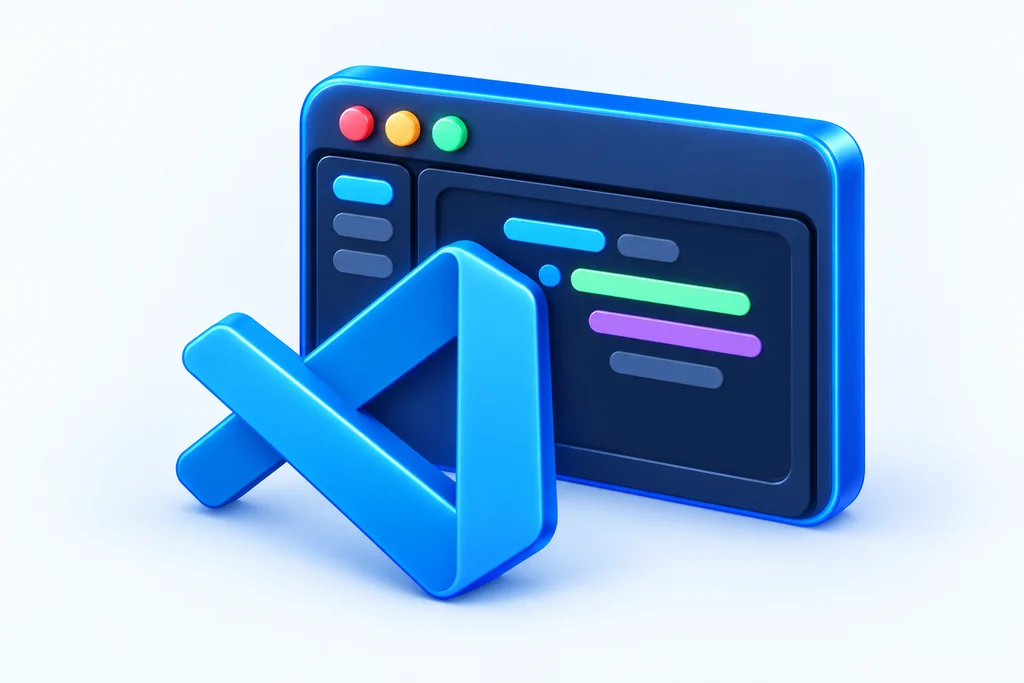
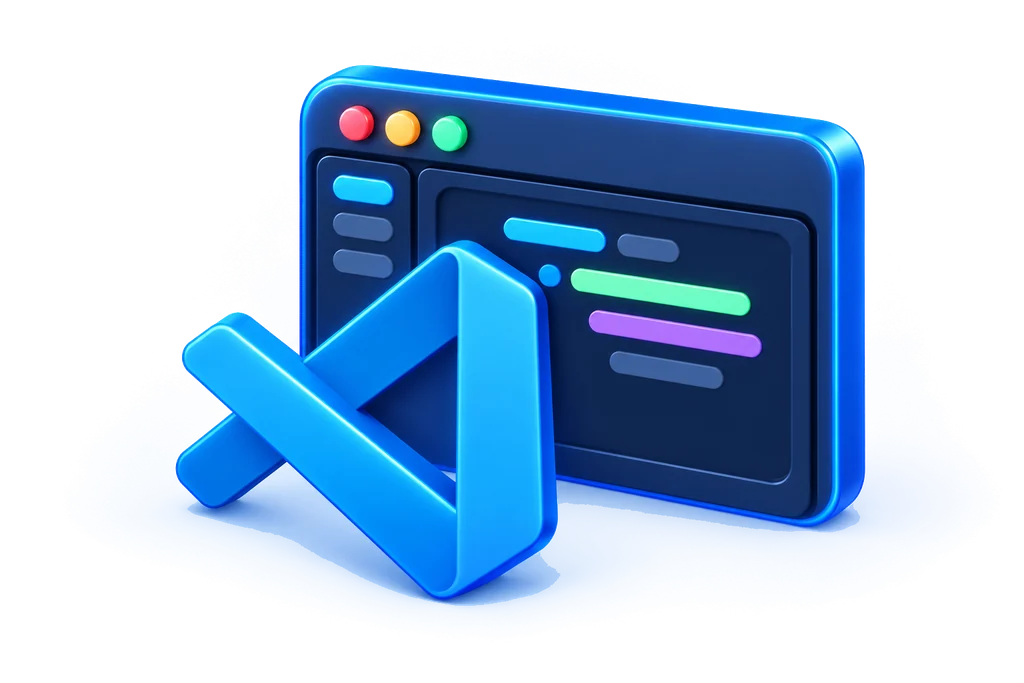
Tune portal card art: larger Web site art on phones, transparent VS Code art
- On touch phones, show the Web site card illustration at about the same
  size as its neighbours, lifted so it may cover the title but not the
  description (desktop is unchanged)
- Cut out the light background of the VS Code card illustration so it no
  longer shows as a pale box in dark mode

Changed region(s): [[0.1562, 0.6764, 0.9062, 0.8917]]

diff --git a/index.html b/index.html
@@ -84,7 +84,8 @@
     }
     @media (max-width:640px) and (hover:none) and (pointer:coarse) {
       .card-illustration img { transform:scale(1.4); transform-origin:center bottom; }
-      .card-illustration--website img { transform:scale(.85); }
+      /* この絵は枠いっぱいに描かれているので、少し持ち上げて下の説明文にかからないようにする */
+      .card-illustration--website img { transform:translateY(-42px) scale(1.1); }
     }
     @media (prefers-reduced-motion:reduce) {
       main, footer, .hero-orb--aura, .hero-orb--glow, .hero-orb--image { animation:none; }
